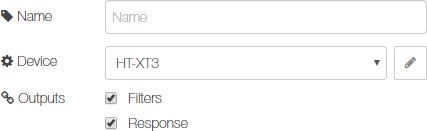
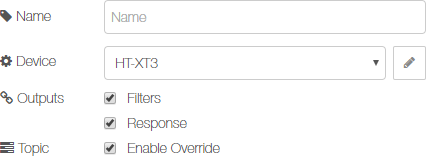
Support for msg.topic in input messages
The controller node now supports usage of the topic property of input
messages to override the command or low-level request method.

diff --git a/nodes/sony-audio-controller.js b/nodes/sony-audio-controller.js
@@ -48,6 +48,35 @@ module.exports = function(RED)
 
         node.timeout = null;
 
+        function getAPIFromTopic(topic)
+        {
+            const TOPIC_REGEX = /^([a-zA-Z]+)\/([a-zA-Z]+)\/([0-9]+\.[0-9]+)$/;
+
+            var matches = topic.match(TOPIC_REGEX);
+            var api = null;
+
+            if (matches !== null)
+            {
+                api = {service: matches[1], method: matches[2], version: matches[3]};
+            }
+
+            return api;
+        }
+
+        function getAPIFromMessage(msg)
+        {
+            var api = null;
+
+            if ((typeof msg.service == "string") &&
+                (typeof msg.method == "string") &&
+                (typeof msg.version == "string"))
+            {
+                api = {service: msg.service, method: msg.method, version: msg.version};
+            }
+
+            return api;
+        }
+
         function setPowerStatus(handler, status)
         {
             sendRequest(handler,
@@ -351,20 +380,37 @@ module.exports = function(RED)
                     };
                 }
 
-                if ((typeof msg.service == "string") &&
-                    (typeof msg.method == "string") &&
-                    (typeof msg.version == "string") &&
-                    (typeof msg.payload == "object"))
+                var api = null;
+                var cmd = null;
+                if (node.config.enableTopic && msg.topic && (typeof msg.topic == "string"))
+                {
+                    api = getAPIFromTopic(msg.topic);
+
+                    if (!api)
+                    {
+                        cmd = msg.topic;
+                    }
+                }
+
+                if (!api)
+                {
+                    api = getAPIFromMessage(msg);
+                }
+
+                if (api)
                 {
                     sendRequest(handler,
-                                msg.service,
-                                msg.method,
-                                msg.version,
+                                api.service,
+                                api.method,
+                                api.version,
                                 msg.payload);
                 }
                 else
                 {
-                    let cmd = (typeof msg.command == "string") ? msg.command : node.config.command;
+                    if (!cmd)
+                    {
+                        cmd = (typeof msg.command == "string") ? msg.command : node.config.command;
+                    }
 
                     switch (cmd)
                     {

diff --git a/nodes/sony-audio-controller.html b/nodes/sony-audio-controller.html
@@ -71,6 +71,10 @@ SOFTWARE.
             {
                 value: false
             },
+            enableTopic:
+            {
+                value: false
+            },
             command:
             {
                 value: "powerOn"
@@ -721,6 +725,15 @@ SOFTWARE.
             </div>
         </div>
     </div>
+    <div class="form-row">
+        <label style="float: left;"><i class="fa fa-tasks"></i> Topic</label>
+        <div class="form-checkbox-row">
+            <div>
+                <input type="checkbox" class="form-checkbox" id="node-input-enableTopic">
+                <label class="form-checkbox-label" style="width: auto;" for="node-input-enableTopic">Enable Override</label>
+            </div>
+        </div>
+    </div>
     <div class="form-row"></div>
     <div class="form-row">
         <label for="node-input-command"><i class="fa fa-exchange"></i> Command</label>
@@ -857,6 +870,11 @@ SOFTWARE.
         <dd>the overridden command settings</dd>
     </dl>
     <p>
+        If <i>Enable Override</i> in the <i>Topic</i> section of the configuration
+        page is activated, the command can alternatively be specified in the
+        <code>msg.topic</code>.
+    </p>
+    <p>
         If all of the following attributes are present, sends a raw /
         low-level request to the Audio Control API ignoring the node's
         command configuration.
@@ -871,6 +889,12 @@ SOFTWARE.
         <dt class="optional">payload<span class="property-type">object</span></dt>
         <dd>the arguments of the request</dd>
     </dl>
+    <p>
+        If <i>Enable Override</i> in the <i>Topic</i> section of the configuration
+        page is activated, the API service, API method and API version can
+        alternatively be specified in the <code>msg.topic</code> in the form
+        <i>service</i>/<i>method</i>/<i>version</i>.
+    </p>
     <h3>Outputs</h3>
     <p>
         The node provides a variable number of outputs which can be selected via

diff --git a/README.md b/README.md
@@ -26,7 +26,7 @@ Node for controlling a Sony audio device via the Audio Control API. The node sen
 The node also supports a low-level mode for cases where the built-in commands are not sufficient. Via specific attributes (see input description below), any request supported by the Sony Audio Control API can be sent to the device. See Sony <a href="https://developer.sony.com/develop/audio-control-api/api-references/api-overview-2">Audio Control API</a> reference for more details about the API methods and their parameters.
 
 #### Configuration
-On the configuration page, you can configure various settings of the node. Optionally enter a name to be displayed - if omitted, "control: _command_" will be shown as name. You have to select the Sony audio device to talk to from the dropdown box (or create a new device configuration if not yet done). The next three checkboxes control which outputs will be provided by the node. The _Filters_ checkbox enables or disables the group of filter output ports and the _Response_ checkbox enables or disables the response output port. See chapter [Outputs](#outputs) below for more information.
+On the configuration page, you can configure various settings of the node. Optionally enter a name to be displayed - if omitted, "control: _command_" will be shown as name. You have to select the Sony audio device to talk to from the dropdown box (or create a new device configuration if not yet done). The next two checkboxes control which outputs will be provided by the node. The _Filters_ checkbox enables or disables the group of filter output ports and the _Response_ checkbox enables or disables the response output port. See chapter [Outputs](#outputs) below for more information. The checkbox _Enable Override_ controls if the node interprets the `msg.topic` property as alternative to command or low level request overrides (see chapter [Input](#input) for more information).
 
 ![General Settings](images/controller_settings1.png)
 
@@ -133,6 +133,8 @@ By providing any of the following attributes in the input message, the correspon
 }
 ```
 
+If _Enable Override_ in the _Topic_ section is activated, the command can alternatively be overridden via the `msg.topic` property. This is useful if you want to provide the command via an inject node without using a change node (because the inject node can only set `msg.topic`and `msg.payload`).
+
 Only certain combinations are meaningful, see the following table.
 
 |Command|source|volume|settings|target|zone|
@@ -176,7 +178,60 @@ To send a low-level request to the Audio Control API, i.e. a request which is di
 }
 ```
 
+If _Enable Override_ in the _Topic_ section is activated, the service, method and version can alternatively be overridden via the `msg.topic` property. This is useful if you want to provide the request via an inject node without using a change node (because the inject node can only set `msg.topic`and `msg.payload`). The topic must be provided in the form `service`/`method`/`version`.
+
+
 For more information on how to form a request, please refer to the Sony [Audio Control API](https://developer.sony.com/develop/audio-control-api/api-references/api-overview-2) reference. There is no need to encapsulate the payload into an array, this is automatically done by the node. For methods that do not have parameters, the `msg.payload` must be set to `null`.
+
+##### Examples
+```javascript
+// set absolute volume to 12 on zone 2 (via command)
+{
+    "command": "setVolume",
+    "payload":
+    {
+        "volume":
+        {
+            "absolute": 12
+        },
+        "zone": 2
+    }
+}
+
+// set source to HDMI port 4 (via command using topic)
+{
+    "topic": "setSource",
+    "payload":
+    {
+        "source":
+        {
+            "scheme": "extInput",
+            "resource": "hdmi",
+            "port": 4
+        }
+    }
+}
+
+// pause playback on zone 1 (via low-level request)
+{
+    "service": "avContent",
+    "method": "pausePlayingContent",
+    "version": "1.1",
+    "payload":
+    {
+        "output": "extOutput:zone?zone=1"
+    }
+}
+
+// get sound setting for clearAudio (via low-level request using topic)
+{
+    "topic": "audio/getSoundSettings/1.1",
+    "payload":
+    {
+        "target": "clearAudio"
+    }
+}
+```
 
 #### Outputs
 The node provides a variable number of output ports depending on the configuration. There is one output port for the raw response as well as a variable number of outputs depending on the filter configuration. Any errors occurring during execution of the node can be handled using a catch node.

diff --git a/CHANGELOG.md b/CHANGELOG.md
@@ -3,6 +3,10 @@ All notable changes to this project will be documented in this file.
 The format is based on [Keep a Changelog](https://keepachangelog.com/en/1.0.0/),
 and this project adheres to [Semantic Versioning](https://semver.org/spec/v2.0.0.html).
 
+## [1.2.0] - 2019-10-13
+### Added
+- Support for MQTT like topics. If enabled, `msg.topic` is parsed for either command or low-level request service/method/version.
+
 ## [1.1.0] - 2019-10-03
 ### Changed
 - Migrated controller node to Node-RED 1.0 API (remaining backwards compatible to Node-RED 0.x).
